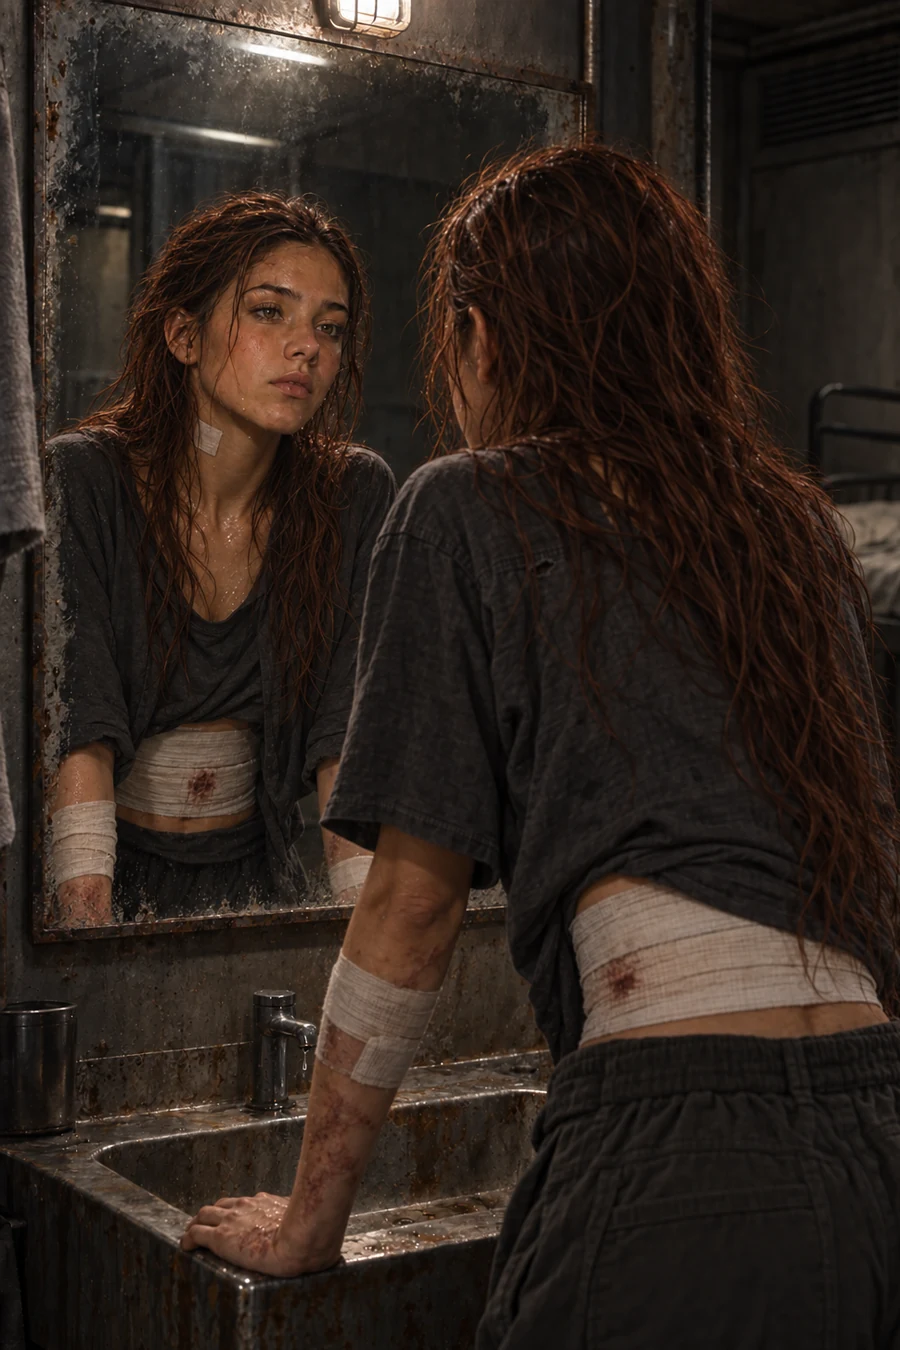
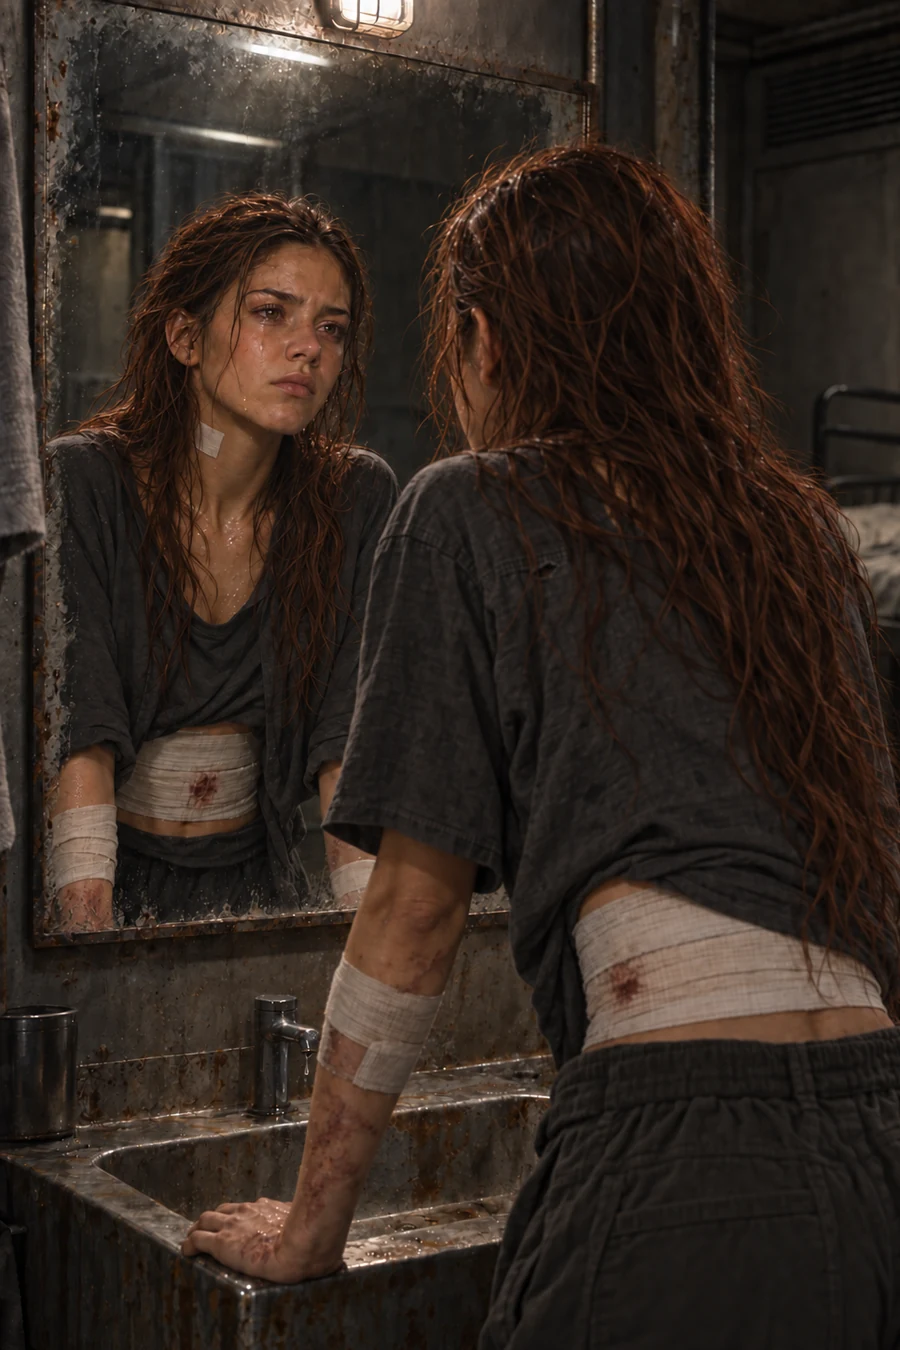
Arlette: versión con el rostro del reflejo más cargado
Misma escena del cap. 26, elegida por Escandar sobre la anterior.

diff --git a/sw.js b/sw.js
@@ -1,6 +1,6 @@
 // REGLA (heredada del Libro I): todo cambio a index.html, styles.css, content.js,
 // app.js o nieve.js exige subir SHELL_CACHE antes de publicar.
-const SHELL_CACHE = "el-ciclo-inmovil-libro2-shell-v37";
+const SHELL_CACHE = "el-ciclo-inmovil-libro2-shell-v38";
 // Mismo nombre que AUDIO_CACHE en app.js ("Guardar sin conexión"). Si no
 // coinciden, el activate de abajo borra los capitulos guardados. No subirlo sin
 // motivo: vacia lo que cada oyente guardo.
